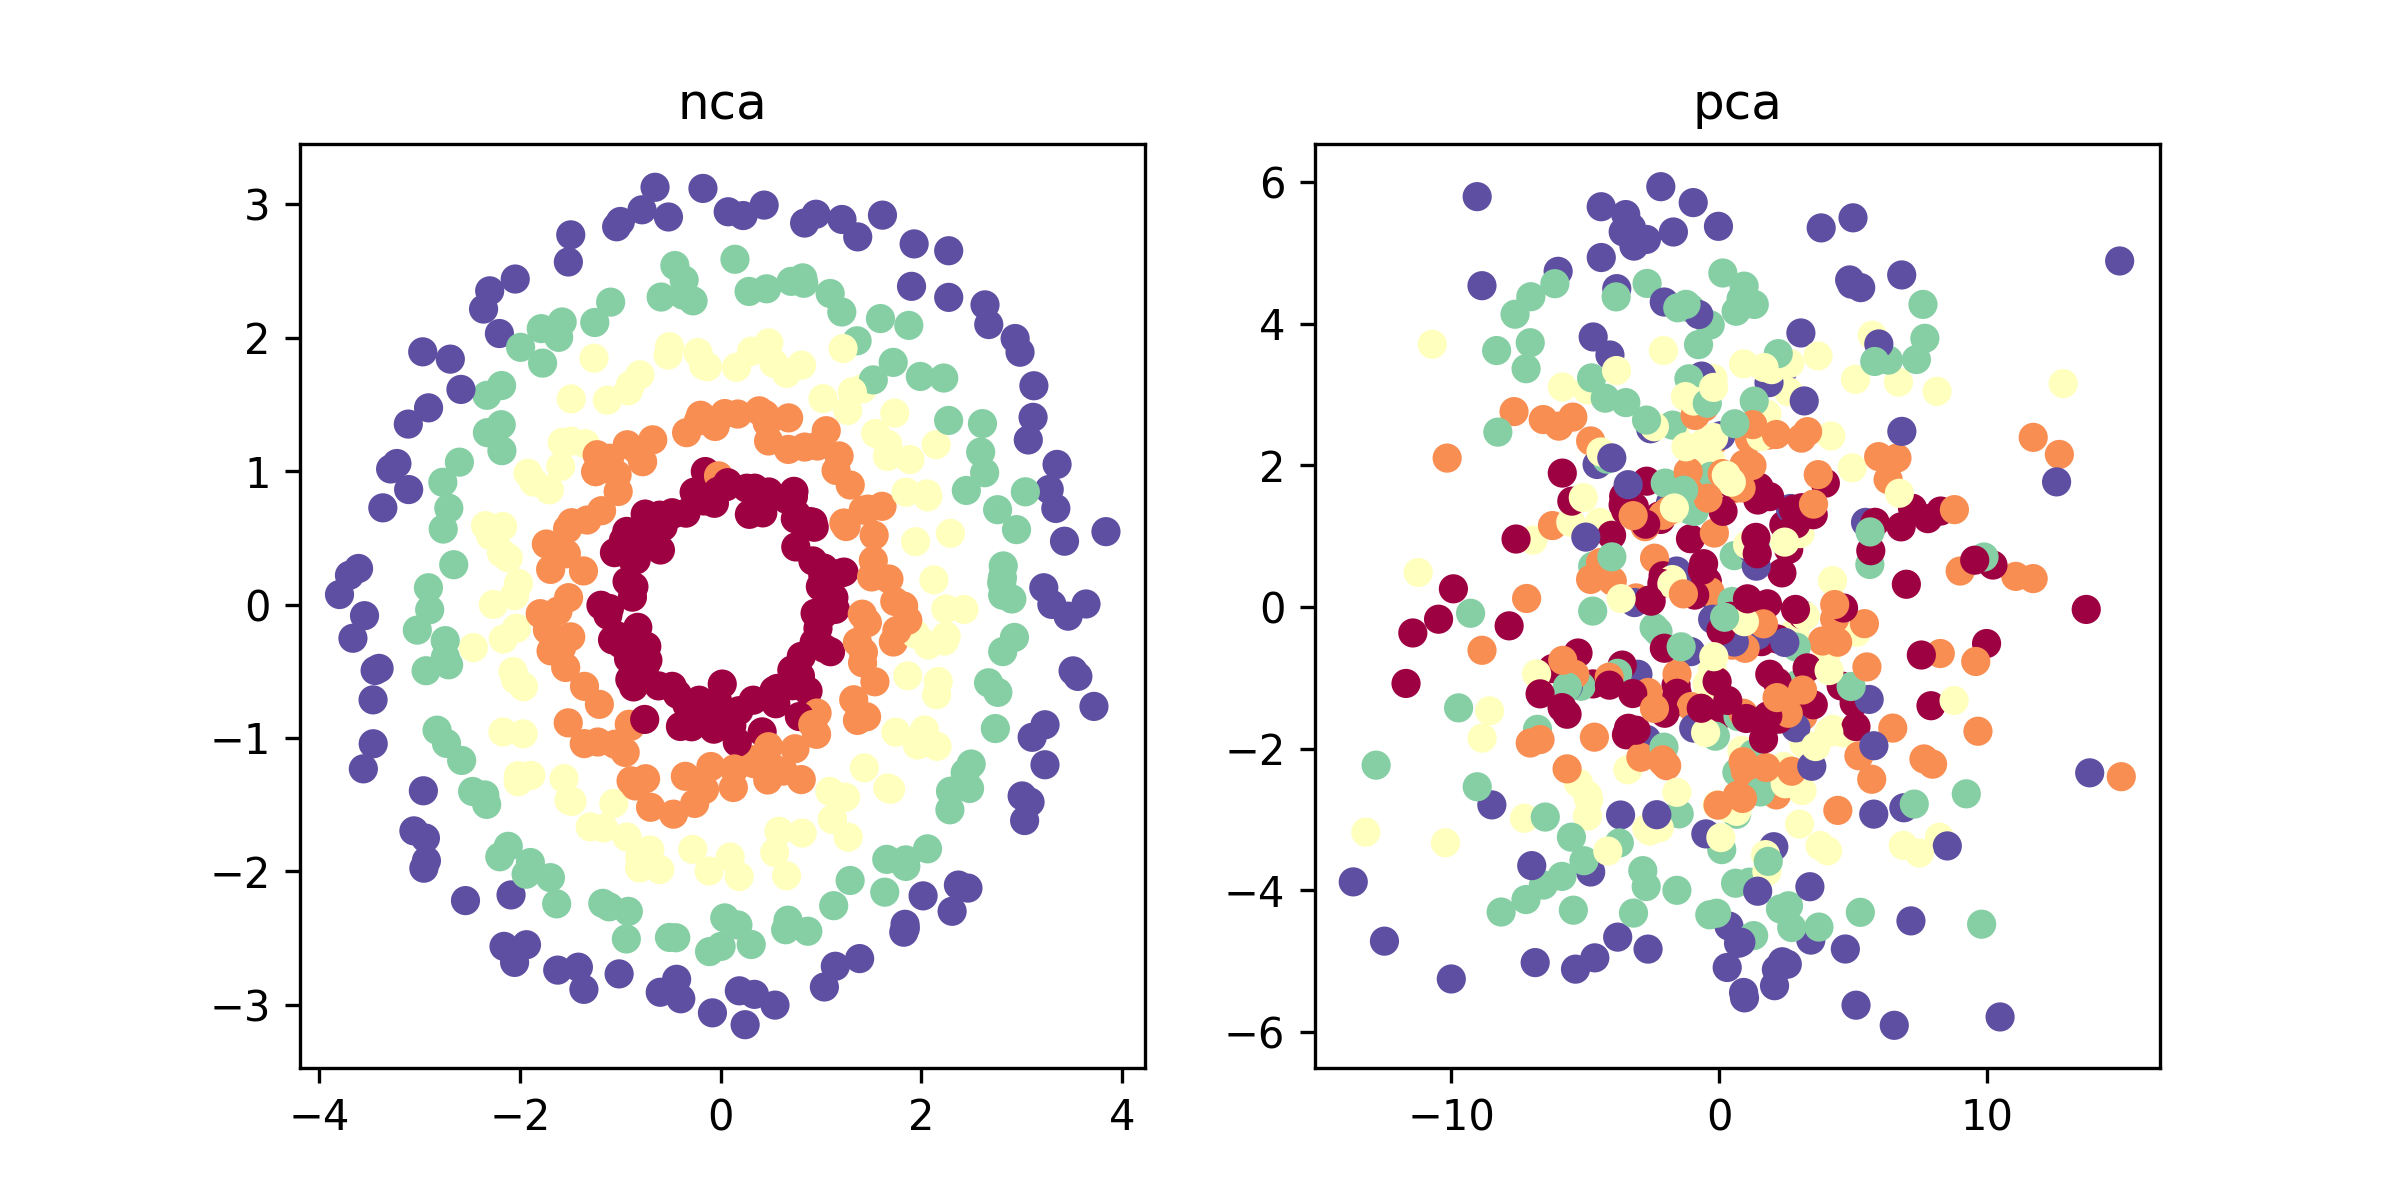
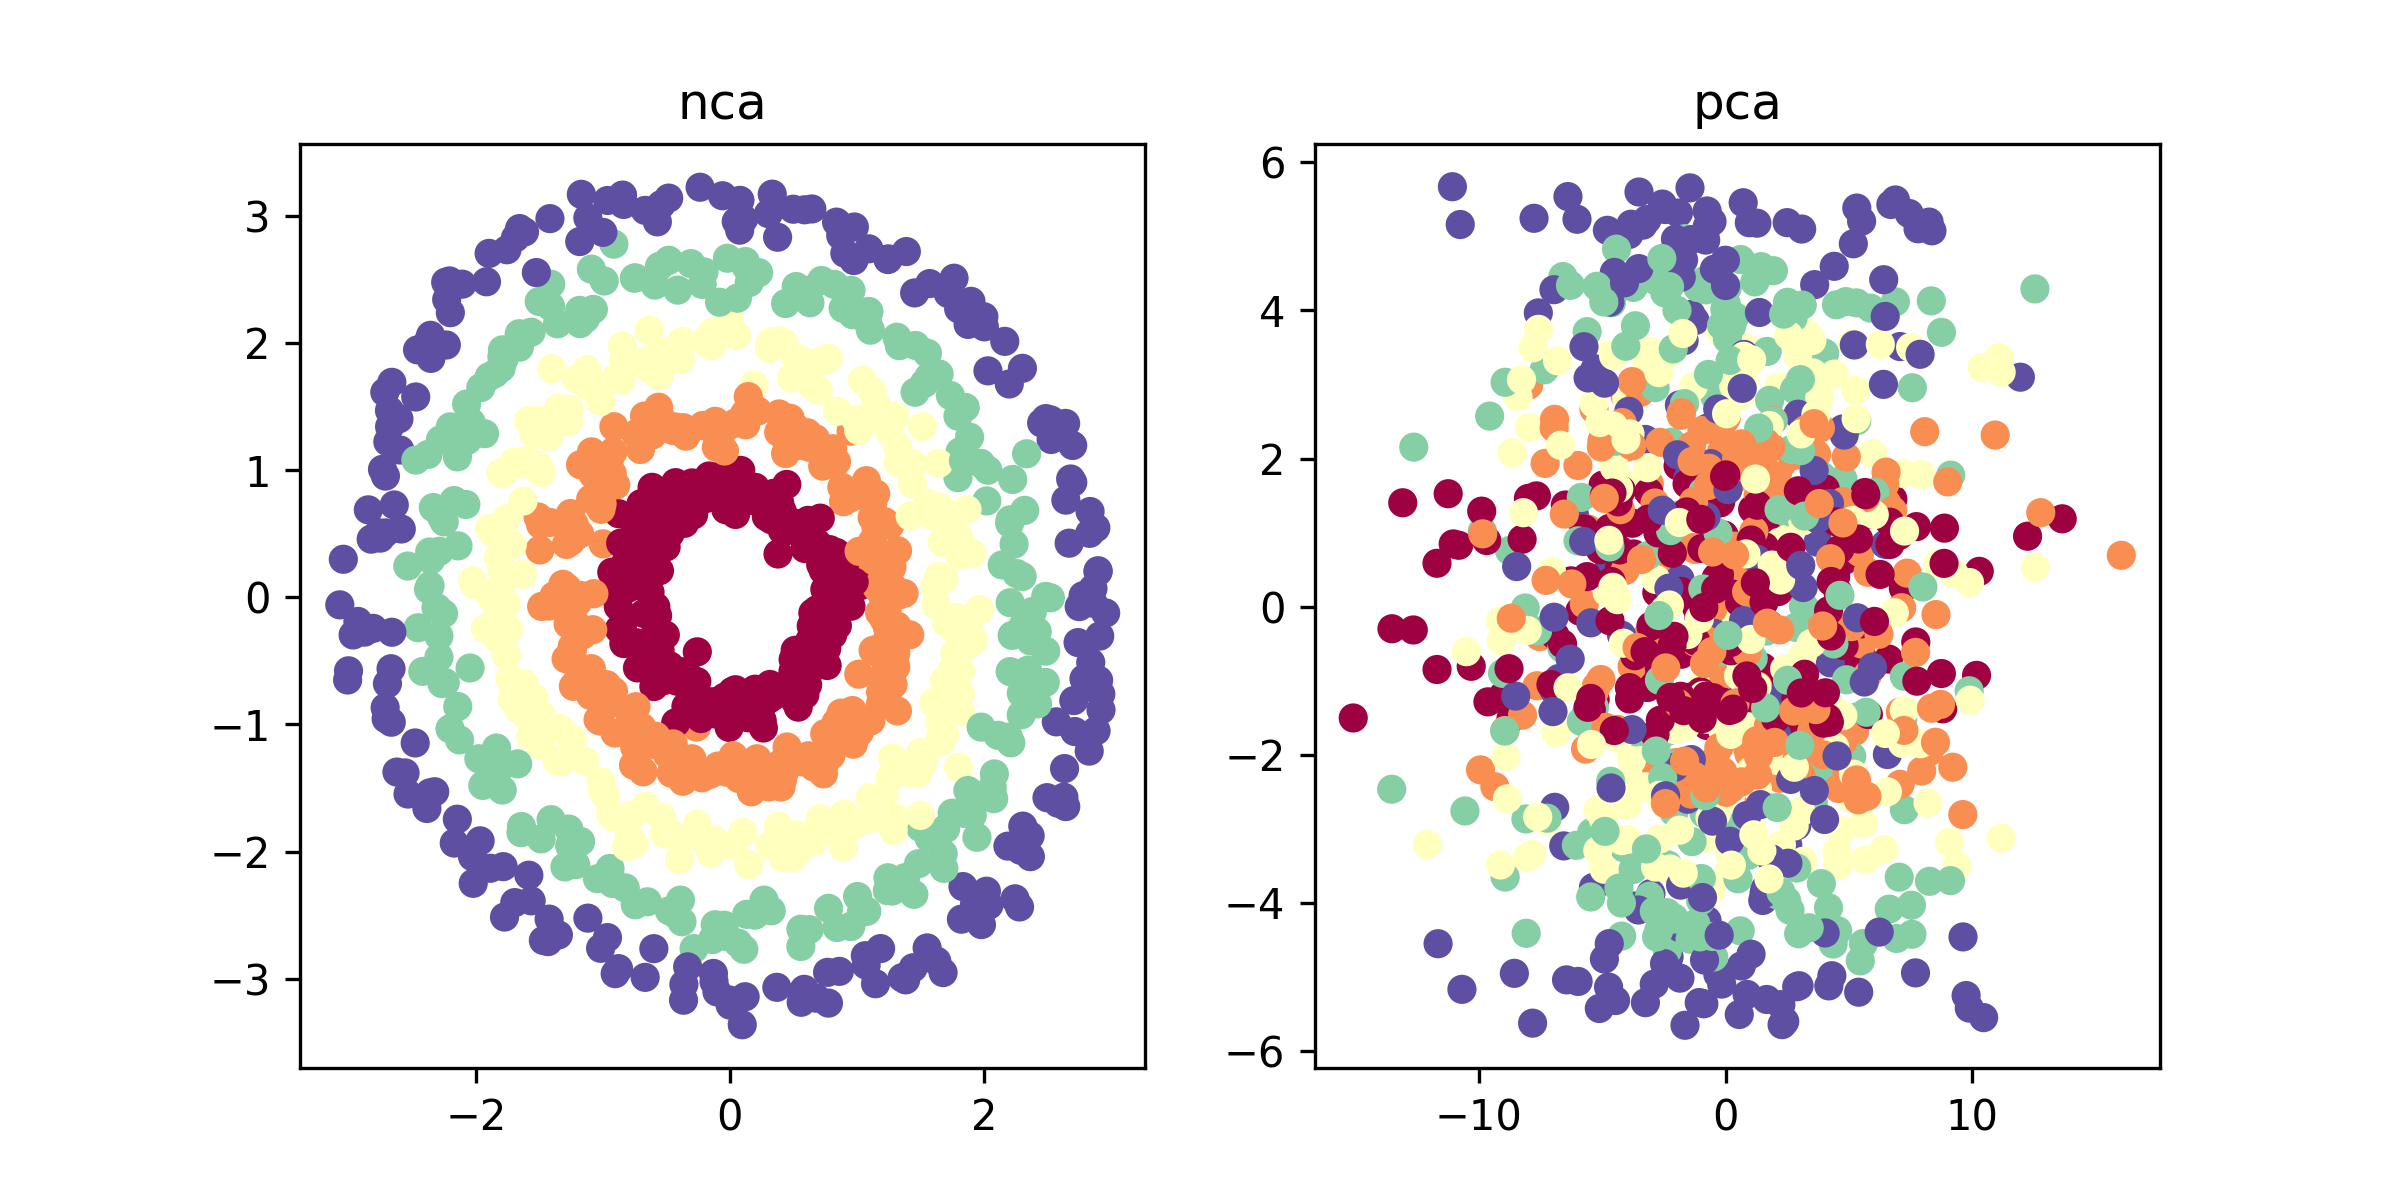
bugfix

diff --git a/nca.py b/nca.py
@@ -5,6 +5,7 @@ Ref: https://www.cs.toronto.edu/~hinton/absps/nca.pdf
 
 import numpy as np
 import torch
+from ipdb import set_trace
 
 
 class NCA:
@@ -46,7 +47,7 @@ class NCA:
     if self.dim is None:
       self.dim = self.num_dims
     if self.init == "random":
-      self.A = torch.randn(self.dim, self.num_dims, requires_grad=True, device=self.device)
+      self.A = torch.rand(self.dim, self.num_dims, requires_grad=True, device=self.device)
     elif self.init == "identity":
       self.A = torch.eye(self.dim, self.num_dims, requires_grad=True, device=self.device)
     else:
@@ -60,16 +61,13 @@ class NCA:
     dist = norm_sq[None, :] - 2*dot + norm_sq[:, None]
     dist = torch.clamp(dist, min=0)  # replace negative values with 0
     dist[dist != dist] = 0  # replace nan values with 0
+    dist.diagonal().copy_(np.inf*torch.ones(len(dist)))
     return dist
 
   def _softmax(self, X):
     """Compute row-wise softmax.
     """
-    exp = torch.exp(X)
-    # zero out diagonal
-    mask = torch.eye(X.shape[0], device=self.device).byte()
-    mask = (~mask).float()
-    exp = exp * mask
+    exp = torch.exp(X).clone()
     return exp / exp.sum(dim=1)
 
   def loss(self, X, y_mask):
@@ -104,7 +102,7 @@ class NCA:
 
     return loss
 
-  def train(self, X, y, batch_size=64):
+  def train(self, X, y, batch_size=None):
     """Trains NCA until convergence.
 
     Specifically, we maximize the expected number of points
@@ -120,6 +118,8 @@ class NCA:
     """
     self.num_train, self.num_dims = X.shape
     self.device = torch.device("cuda" if X.is_cuda else "cpu")
+    if batch_size is None:
+      batch_size = self.num_train
 
     # initialize the linear transformation matrix A
     self._init_transformation()
@@ -136,8 +136,6 @@ class NCA:
         # grab batch
         X_batch = X[i*batch_size:(i+1)*batch_size]
         y_batch = y[i*batch_size:(i+1)*batch_size]
-
-        # compute pairwise boolean class matrix
         y_mask_batch = y_mask[i*batch_size:(i+1)*batch_size, i*batch_size:(i+1)*batch_size]
 
         # compute loss and take gradient step
@@ -148,7 +146,7 @@ class NCA:
 
         i_global += 1
         if not i_global % 100:
-          print("epoch: {} - loss: {:.2f}".format(epoch+1, loss.item()))
+          print("epoch: {} - loss: {:.5f}".format(epoch+1, loss.item()))
 
       # check if within convergence
       A_curr = optimizer.param_groups[0]['params'][0]

diff --git a/main.py b/main.py
@@ -59,8 +59,11 @@ def main(args):
     torch.manual_seed(args.seed)
     device = torch.device("cpu")
 
-  num_samples = 100
+  num_samples = 200
   X, y = gen_data(num_samples, 5, 0, 5, device)
+
+  plt.scatter(X[:, 0], X[:, 1], c=y, cmap=plt.cm.Spectral)
+  plt.show()
 
   # fit PCA
   pca = PCA(n_components=2)
@@ -70,8 +73,9 @@ def main(args):
   # fit NCA
   X = torch.from_numpy(X).float().to(device)
   y = torch.from_numpy(y).long().to(device)
-  nca = NCA(dim=2, init="identity", max_iters=1000, tol=1e-4)
+  nca = NCA(dim=2, init="identity", max_iters=500, tol=1e-4)
   nca.train(X, y, batch_size=64)
+  print(nca.A.detach().cpu().numpy())
   X_nca = nca(X).detach().cpu().numpy()
   y = y.detach().cpu().numpy()
   X = X.detach().cpu().numpy()
